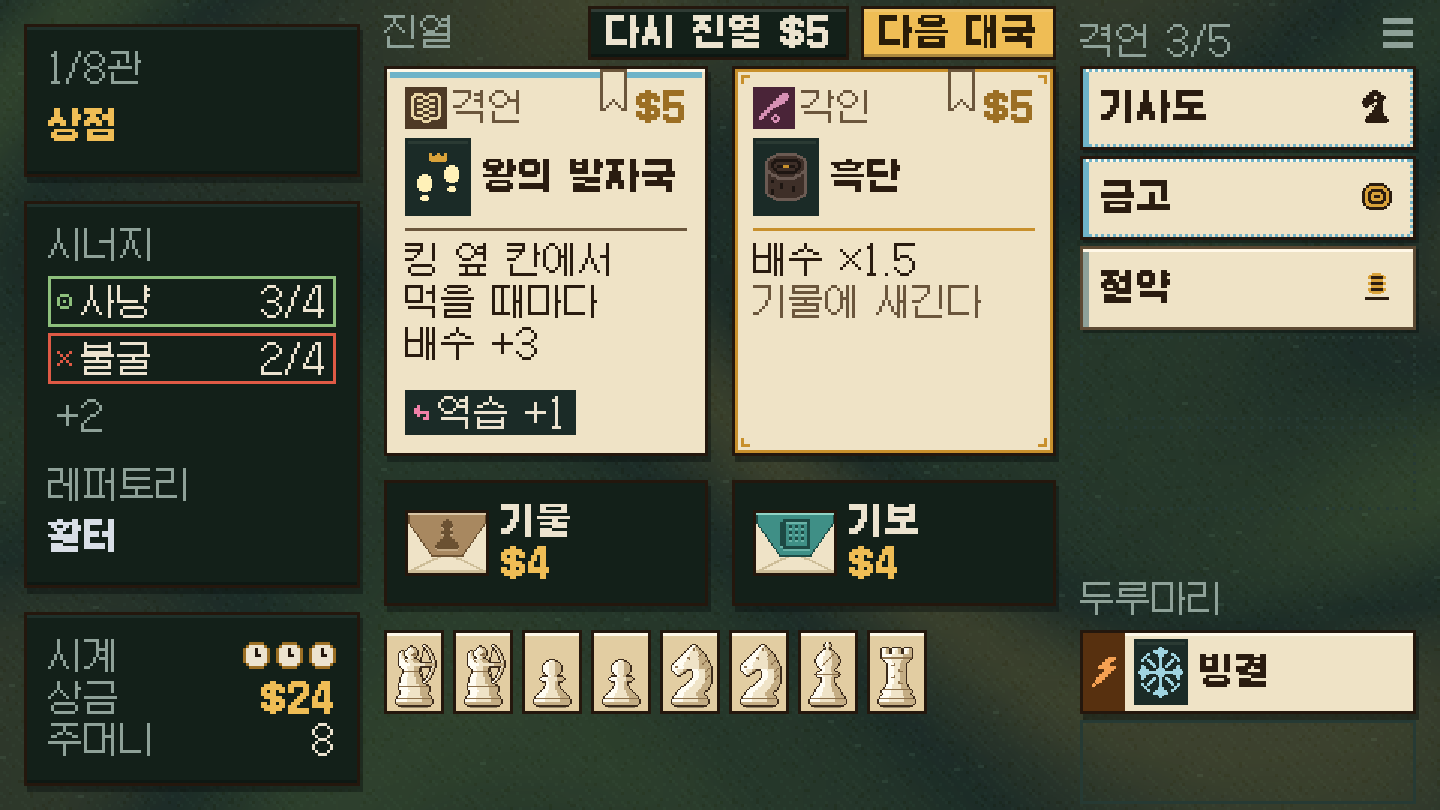
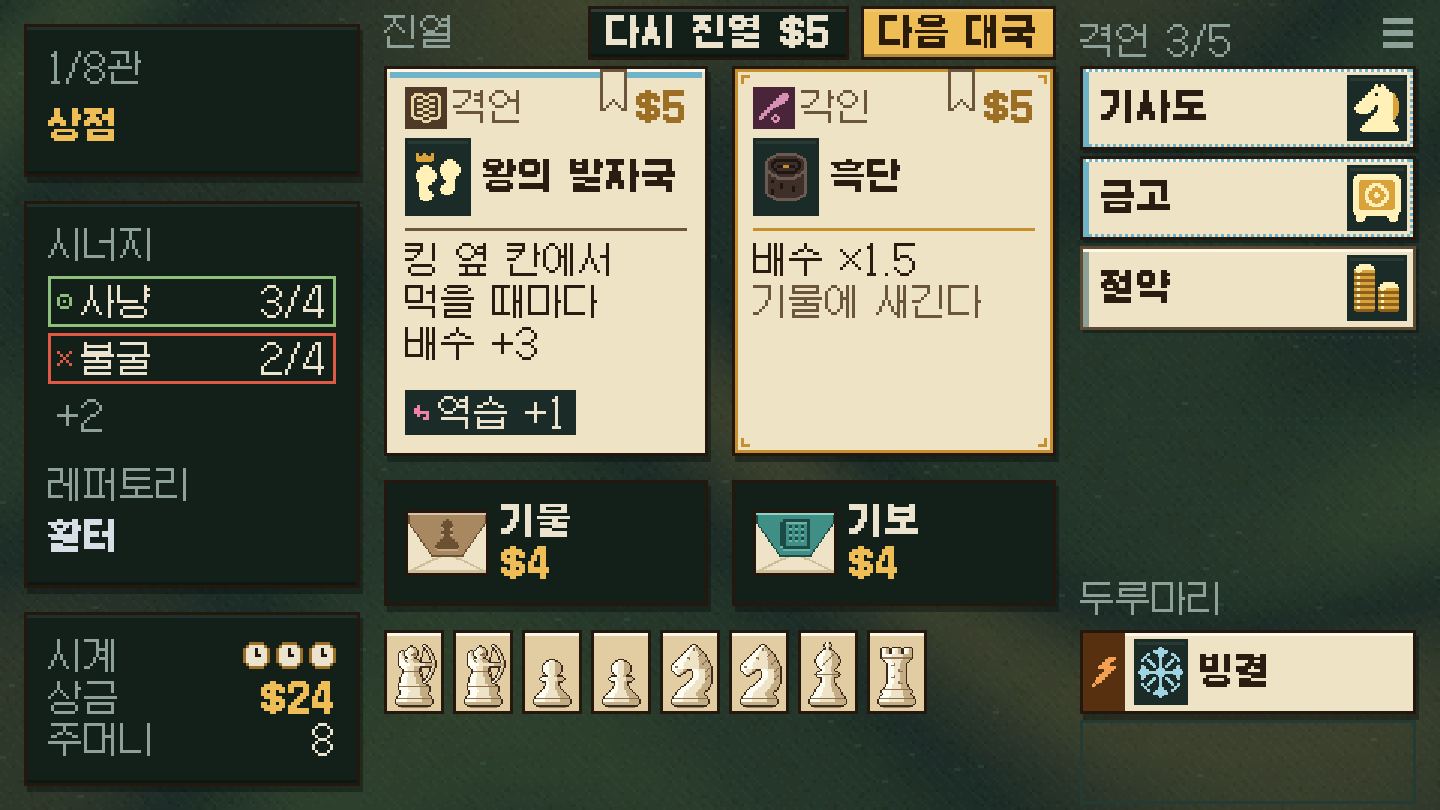
상점 카드 그림 스크린샷을 다시 찍었다 — 격언 칸 그림과 다시 그린 셋이 들어간 after-* 전부(격언 칸이 찬 상점 · 금빛 꾸러미 격언 격자 · 도감 명경기 · 전설 화면 더함, 웹킷 · 크로미움)와 잉크 상자 표(CHM-69)

Changed region(s): [[0.9375, 0.0926, 1.0, 0.4012], [0.2812, 0.1852, 0.3125, 0.2469]]

diff --git a/docs/shots/shop-art/after-ink.md b/docs/shots/shop-art/after-ink.md
@@ -7,6 +7,7 @@
 | 묶음 | 수 | 벗어남 0 아님 | 과녁 밖 | 예외 |
 |---|---|---|---|---|
 | art | 111 | 0 | 0 | evolve: |
+| maxim-cell | 75 | 0 | 0 | - |
 | scroll | 33 | 0 | 0 | evolve: |
 | card-tab | 12 | 0 | 0 | - |
 | card-art | 12 | 0 | 0 | chart:R · evolve: · piece:N |
@@ -90,6 +91,7 @@
 | 묶음 | 수 | 벗어남 0 아님 | 과녁 밖 | 예외 |
 |---|---|---|---|---|
 | art | 111 | 0 | 0 | evolve: |
+| maxim-cell | 75 | 0 | 0 | - |
 | scroll | 33 | 0 | 0 | evolve: |
 | card-tab | 12 | 0 | 0 | - |
 | card-art | 12 | 0 | 0 | chart:R · evolve: · piece:N |
